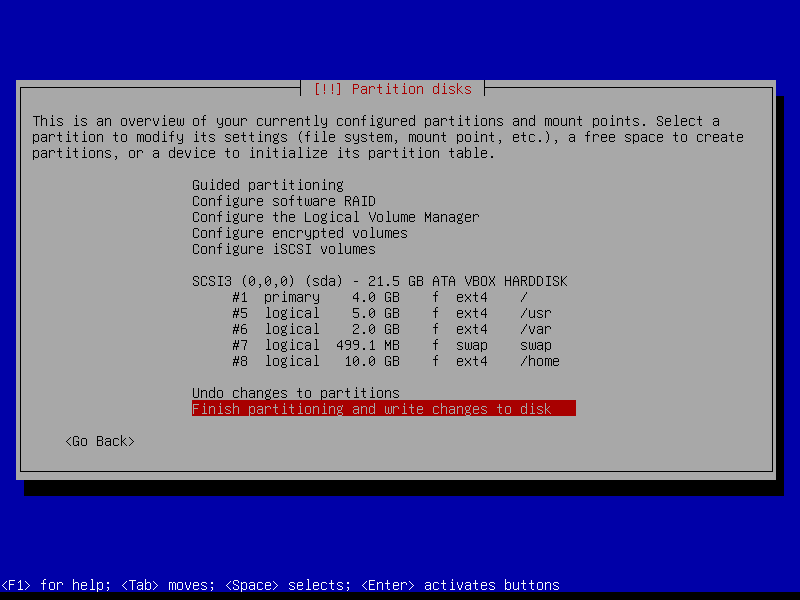
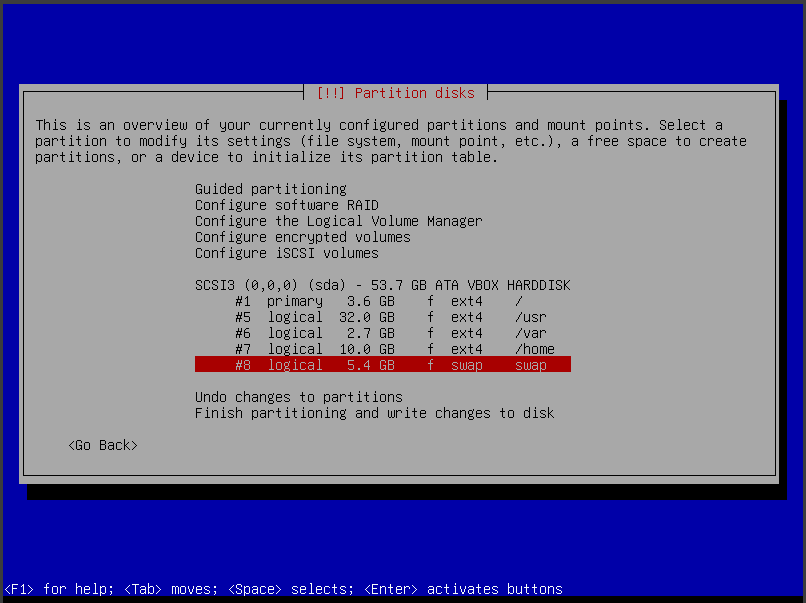
Ajustado partitions, feito discussao de resultados e conclusao

Changed region(s): [[0.0, 0.0, 1.0, 1.0], [0.2188, 0.3, 0.7188, 0.72], [0.0938, 0.72, 0.1562, 0.75]]

diff --git a/Lab1/abntex2-modelo-relatorio-tecnico.tex b/Lab1/abntex2-modelo-relatorio-tecnico.tex
@@ -310,7 +310,7 @@ Nesta seção, serão detalhados os procedimentos executados para a instalação
 \subsection{Configurações do Hipervisor}
 \label{subsec:hipervisor}
 
-Os passos iniciais se deram por meio da instalação do Oracle VM VirtualBox e também da obtenção da imagem do Debian que foi utilizada para a instalação. 
+Os passos iniciais se deram por meio da instalação do Oracle VM VirtualBox e também da obtenção da imagem do Debian que foi usada para a instalação. 
 
 \begin{figure}[H]
   \centering
@@ -342,13 +342,13 @@ Na Figura~\ref{fig:partition}, estão apresentadas as configurações de partici
 A memória secundária possui 50 GB de armazenamento, o que possibilitou que as partições fossem dispostas da seguinte maneira:
 
 \begin{itemize}
-    \item \textit{/}: É a raiz do sistema de arquivos, servindo como ponto de montagem para todos os outros dispositivos e sistemas de arquivos. Por ser o local onde o sistema operacional inicia e onde estão armazenados arquivos críticos, foi alocado um tamanho de 4 GB para esta partição.
+    \item \textit{/}: É a raiz do sistema de arquivos, servindo como ponto de montagem para todos os outros dispositivos e sistemas de arquivos. Por ser o local onde o sistema operacional inicia e onde estão armazenados arquivos críticos, foi alocado um tamanho de 3.6 GB para esta partição.
     
-    \item \textit{/usr}: Este diretório é responsável por armazenar programas e dados de usuários. Por conter a maior quantidade de dados e ser amplamente utilizado durante a compilação, foi escolhido um tamanho de 5 GB para esta partição.
+    \item \textit{/usr}: Este diretório é responsável por armazenar programas e dados de usuários. Por conter a maior quantidade de dados e ser amplamente utilizado durante a compilação, foi escolhido um tamanho de 32 GB para esta partição.
     
-    \item \textit{/var}: Armazena dados variáveis, como logs e outros arquivos que podem mudar com frequência. Por não ser uma área crítica para o funcionamento do sistema, neste trabalho em específico, foi definido um tamanho de apenas 2 GB.
+    \item \textit{/var}: Armazena dados variáveis, como logs e outros arquivos que podem mudar com frequência. Por não ser uma área crítica para o funcionamento do sistema, neste trabalho em específico, foi definido um tamanho de apenas 2.7 GB.
     
-    \item \textit{swap}: Esta partição é utilizada para armazenar páginas de memória que estavam na RAM, funcionando como uma extensão da memória virtual do sistema. Devido à quantidade de RAM já alocada durante a configuração do hipervisor, optou-se por um tamanho de apenas 500 MB para a partição \textit{swap}.
+    \item \textit{swap}: Esta partição é utilizada para armazenar páginas de memória que estavam na RAM, funcionando como uma extensão da memória virtual do sistema. Devido à quantidade de RAM já alocada durante a configuração do hipervisor, optou-se por um tamanho de 5.4 GB para a partição \textit{swap}.
     
     \item \textit{/home}: Este diretório armazena os arquivos de configuração pessoal de cada usuário do sistema. Como é uma área frequentemente utilizada pelos usuários, foi definido um tamanho maior do que o das demais partições, totalizando 10 GB.
 \end{itemize}
@@ -615,8 +615,12 @@ A Figura~\ref{fig:boot} mostra a saída do comando \textit{du -sh /lib/modules/6
 \section{Discussão dos Resultados}
 \label{sec:discussao}
 
+Os resultados obtidos foram satisfatórios, alcançando o objetivo de instalar o GNU/Linux Debian e compilar o núcleo do Linux com sucesso. No entanto, algumas dificuldades foram encontradas, especialmente em relação ao dimensionamento das partições, o que exigiu ajustes manuais e revisão das etapas de particionamento. Além disso, houve certa confusão com a disposição e clareza das informações sobre o processo de compilação do núcleo, o que tornou a navegação pelos guias e documentação mais desafiadora do que o esperado. Apesar desses obstáculos, foi possível remover módulos desnecessários, como o Macintosh Device Drivers, otimizando o núcleo para o hardware utilizado. O mapeamento detalhado dos passos de instalação e compilação proporcionou uma compreensão prática e aprofundada da estrutura e configuração do sistema.
+
 \section{Conclusões}
 \label{sec:conclusoes}
+
+O objetivo principal de instalar o GNU/Linux Debian, compreender a estrutura básica do Linux, explorar alguns comandos essenciais, e configurar e compilar o núcleo foi atingido com êxito. A grande vantagem desse processo foi a capacidade de personalizar o núcleo, removendo partes que não seriam utilizadas, como módulos irrelevantes, resultando em economia de recursos do sistema. No entanto, para aqueles que buscam uma solução mais prática e \textit{plug and play}, esse processo não é recomendado, pois demanda conhecimentos avançados e pode ser desnecessariamente complexo para usuários comuns. Esse tipo de atividade é mais adequado para profissionais e entusiastas que desejam um controle maior sobre seu sistema operacional.
 
 % ----------------------------------------------------------
 % ELEMENTOS PÓS-TEXTUAIS
